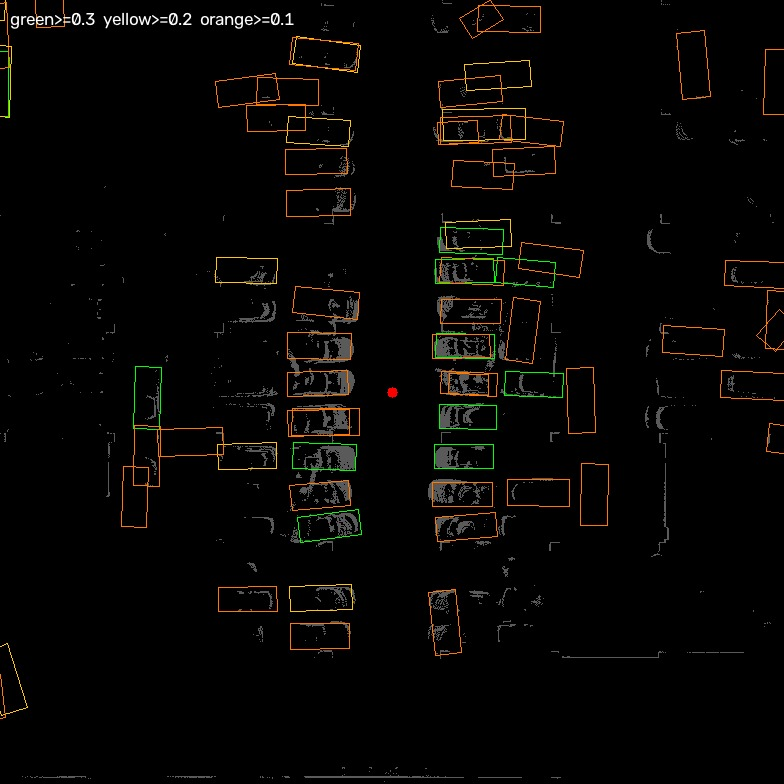
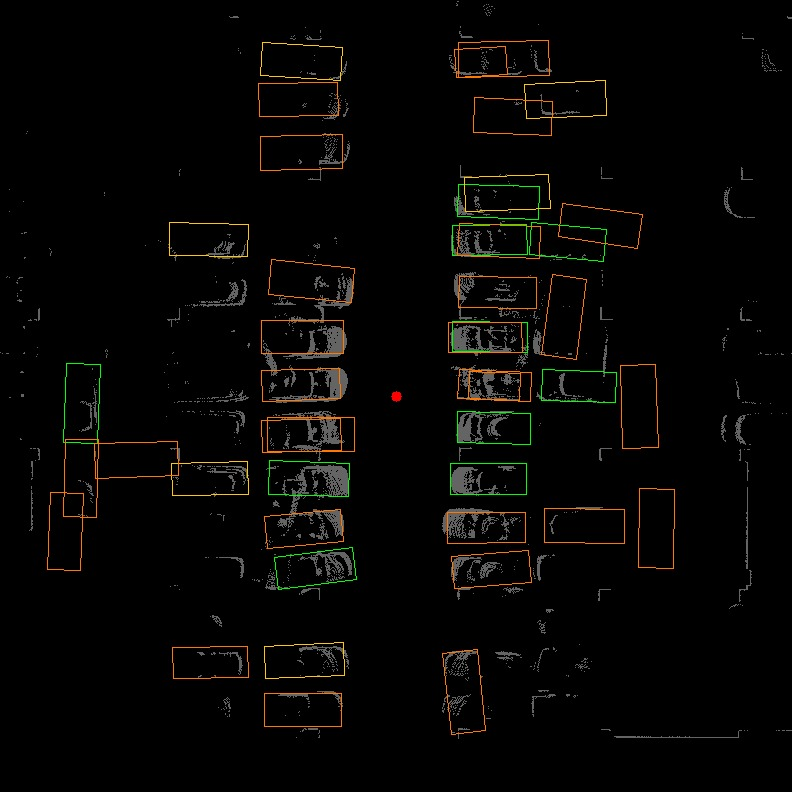
박스가 90도 돌아가던 원인: size 순서가 W,L,H 인데 L,W,H 로 썼다
ReBound 의 dataformat_utils.py:147 에 'sizes: W,L,H' 라고 적혀 있다.
nuScenes 관례다. mmdet3d 는 dx(길이), dy(폭) 순이라 그대로 넣으면
4.2x1.7 짜리 차가 1.7x4.2 로 들어가 90도 돌아간 것처럼 보인다.

회전 공식은 맞았다. mmdet3d 의 LiDARInstance3DBoxes.corners 와 내가
계산한 코너를 대조해 최대 차이 0.0000m 로 확인했다. 틀린 것은 size 하나다.

앞서 '출력 파일만 읽어 역투영' 으로 검증했는데도 놓쳤다. 내가 쓴 규칙으로
다시 읽었기 때문이다. 포맷 검증은 대상 도구의 문서와 렌더링 코드를
기준으로 해야 한다.

11단계 완료로 표시한다. 버그 세 개(읽기전용 배열, 기본 임계값 50,
size 순서)를 고쳤고 전부 화면으로 보지 않았으면 놓쳤을 것들이다.

Claude-Session: https://claude.ai/code/session_01GvGTyauCpumxwLHxDhvDyo

diff --git a/데이터_라벨링/code/to_rebound.py b/데이터_라벨링/code/to_rebound.py
@@ -174,7 +174,9 @@ def main():
                 l_, w_, h_ = bx["size"]
                 yaw = bx["yaw"]
                 out.append({"origin": [cx, cy, cz + h_ / 2],   # 바닥중심 → 중심
-                            "size": [l_, w_, h_],
+                            # ReBound 는 W,L,H 순서다 (dataformat_utils.py:147).
+                            # mmdet3d 는 dx(길이), dy(폭) 순이므로 맞바꾼다.
+                            "size": [w_, l_, h_],
                             "rotation": [float(np.cos(yaw / 2)), 0.0, 0.0,
                                          float(np.sin(yaw / 2))],
                             "annotation": bx["class"],

diff --git a/README.md b/README.md
@@ -21,8 +21,8 @@
 | 8 | KISS-ICP 드리프트 측정 | ✅ | 2026-10-03 16:38 |
 | 9 | 키프레임 선별 (1 m 간격, 251 → 28) | ✅ | 2026-10-03 17:15 |
 | 10 | 포맷 변환 (ReBound) | ✅ | 2026-10-03 22:58 |
-| 11 | 라벨링 툴(ReBound) 설치 + 적재 확인 | ⬜ **다음** | |
-| 12 | **3D bounding box 라벨링** (검출기 초안 → 사람 수정) | ⬜ | |
+| 11 | 라벨링 툴(ReBound) 설치 + 적재 확인 | ✅ | 2026-10-03 23:50 |
+| 12 | **3D bounding box 라벨링** (검출기 초안 → 사람 수정) | ⬜ **다음** | |
 | 13 | 품질 검사 | ⬜ | |
 | 14 | 나머지 7개 세션에 4~13 반복 | ⬜ | |
 | 15 | 번호판 · 얼굴 블러링 | ⬜ | |
@@ -149,9 +149,25 @@ nuScenes 사전학습 PointPillars 를 키프레임 28 장에 돌려 **박스 38
 
 **ReBound 출력 파일만 읽어 역투영해 검증했다.** 변환에서 쿼터니언이나 중심 기준이 틀어져도 숫자는 그럴듯해 보이기 때문이다. 박스가 실제 차 위에 올라가고, 박스 바닥 z 가 따로 측정한 지면 높이 −1.91 m 와 일치한다.
 
-### 다음 (11 단계)
+**11. 라벨링 툴 설치 + 적재 확인** — [`데이터_라벨링/포맷변환.md`](데이터_라벨링/포맷변환.md)
 
-ReBound 설치 후 변환한 데이터를 적재해 확인한다.
+ReBound 를 설치하고 session_025 를 적재했다. 실행은 [`데이터_라벨링/code/run_rebound.sh`](데이터_라벨링/code/run_rebound.sh).
+
+**버그 세 개를 고쳐야 했다. 화면으로 보지 않았으면 전부 놓쳤을 것들이다.**
+
+| 증상 | 원인 | 수정 |
+|---|---|---|
+| 프레임 3 에서 창이 꺼짐 | ReBound 가 `np.asarray(Image.open(...))` 로 읽기 전용 배열을 만들고 그 위에 cv2 로 그린다. 프레임 0~2 는 박스가 화면에 안 걸려 멀쩡했다 | `np.array` 로 (4 곳) |
+| 박스가 거의 안 보임 | `lct.py:90` 기본 confidence 임계값이 **50**, 우리 점수는 10~55 | 기본값 10 으로 |
+| **박스가 90° 돌아감** | **내 변환 버그.** ReBound 는 size 가 `[W, L, H]` 인데 `[L, W, H]` 로 썼다 | `to_rebound.py` 수정 |
+
+마지막 것은 앞서 "출력 파일만 읽어 역투영" 으로 검증했는데도 놓쳤다. **내가 쓴 규칙으로 다시 읽었기 때문**이다. 포맷 검증은 대상 도구의 문서와 렌더링 코드를 기준으로 해야 한다.
+
+**라벨링 범위도 20 m 로 줄였다.** 30 m 에서는 차 한 대에 점이 25 개뿐이라 방향·높이를 정할 수 없다. 프레임당 박스가 93 → 37 개.
+
+### 다음 (12 단계)
+
+ReBound 에서 검출기 초안 1,029 개를 확인·수정해 라벨을 만든다. **여기부터는 사람이 하는 작업이다.**
 
 ---
 

diff --git a/데이터_라벨링/포맷변환.md b/데이터_라벨링/포맷변환.md
@@ -166,3 +166,32 @@ sed -i 's/self\.min_confidence = 50/self.min_confidence = 10/' ~/Documents/ReBou
 작업량은 박스 1,029 개지만 **조작 횟수는 그보다 훨씬 적다.** 주차된 차는 고정이라 한 번 그리면 ego pose 로 전파된다. 28 m 주행에 양옆 첫째·둘째 줄이면 실제 차는 50~80 대이고, 5 초마다 재조정(8 단계)을 포함해 200~300 번 수준이다.
 
 `pred_bounding` 도 20 m 이내 차량 클래스만 남겼다 — 프레임당 37 개 (car 842 / truck 146 / construction_vehicle 41).
+
+## 박스가 90° 돌아가 있던 원인 — size 순서 (2026-10-03)
+
+차가 가로로 주차돼 있는데 박스는 세로로 그려졌다. **내 변환 버그다.**
+
+`utils/dataformat_utils.py:147` 에 명시돼 있다.
+
+> `sizes: [n, 3] list representing **W, L, H** of box`
+
+ReBound 는 **[폭, 길이, 높이]** 순서(nuScenes 관례)인데, mmdet3d 는 `dx`(길이), `dy`(폭) 순이다. 그대로 넣어서 4.2 × 1.7 짜리 차가 1.7 × 4.2 로 들어갔다.
+
+`lct.py` 렌더링에서 되바꾸는 코드가 단서였다.
+
+```python
+size[0] = box[SIZE][1]    # Open3D wants sizes in L,W,H
+size[1] = box[SIZE][0]
+```
+
+**회전 공식은 맞았다.** mmdet3d 의 `LiDARInstance3DBoxes.corners` 와 내가 계산한 코너를 대조해 **최대 차이 0.0000 m** 로 확인했다. 틀린 것은 size 하나뿐이었다.
+
+**수정**: `to_rebound.py` 에서 `"size": [w, l, h]` 로 쓴다.
+
+![검출 평면도](figures/검출_평면도.jpg)
+
+ReBound 와 같은 방식으로(`extent = (size[1], size[0], size[2])`) 다시 그린 평면도. 박스가 주차된 차의 점 덩어리와 방향·크기가 맞는다.
+
+### 교훈
+
+앞서 "ReBound 출력 파일만 읽어 역투영" 으로 검증했는데도 이 버그를 놓쳤다. **내가 쓴 규칙(`[l, w, h]`)으로 다시 읽었기 때문**이다. 포맷 변환을 검증할 때는 내 가정이 아니라 **대상 도구의 문서와 렌더링 코드**를 기준으로 읽어야 한다.
